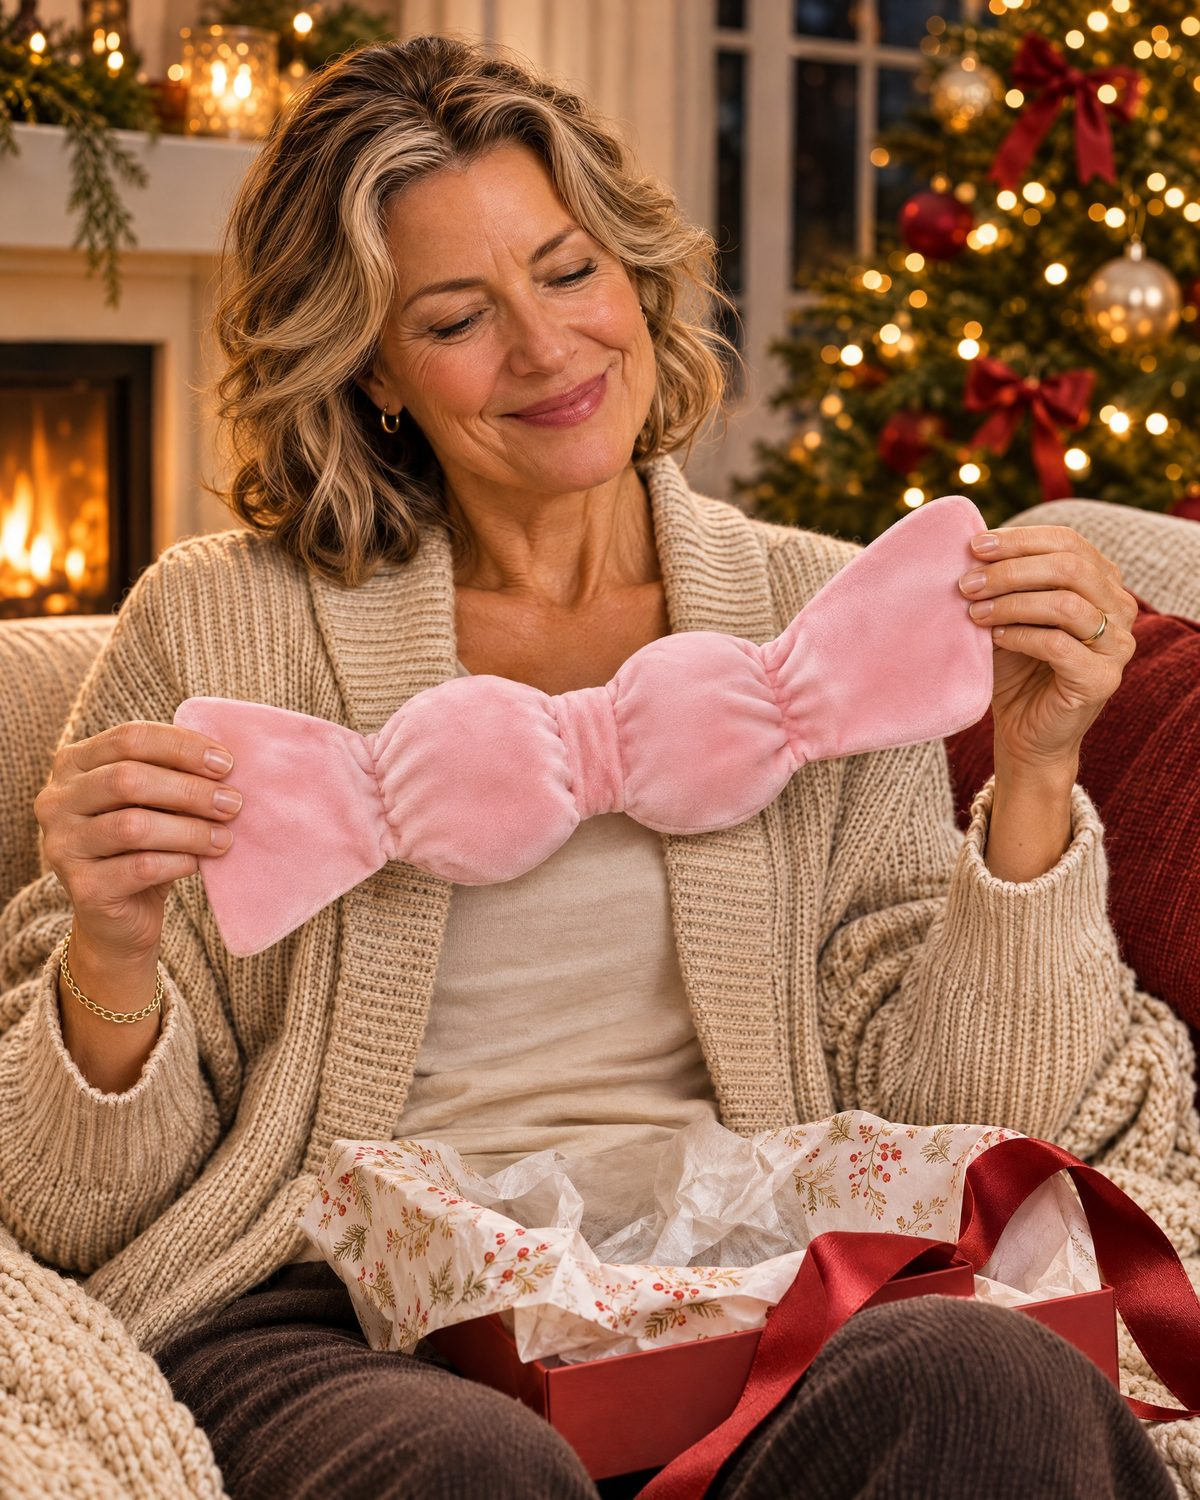
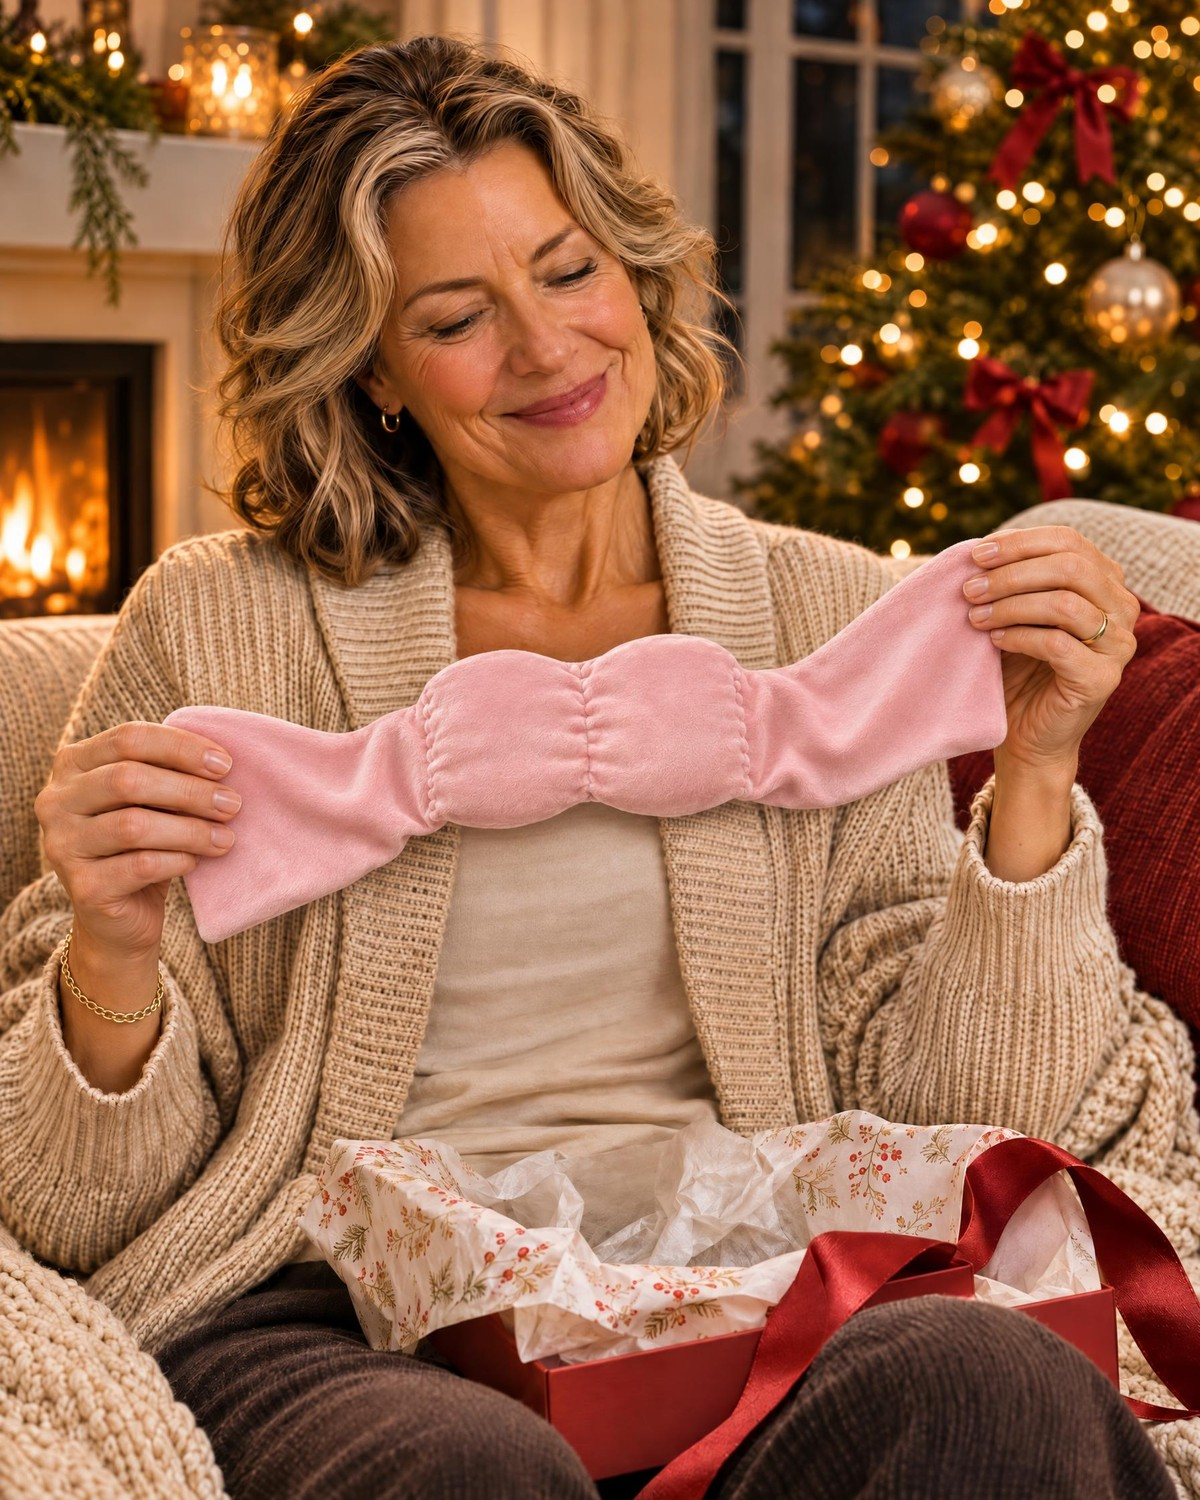
Nowe zdjęcia różowej maski, dostawa 7–15 dni, bez wymiarów
Claude-Session: https://claude.ai/code/session_015pvefb4PoZBYha924Rvz6N

diff --git a/biznes.md b/biznes.md
@@ -310,3 +310,4 @@ Do zrobienia przed startem (właściciel klika, kolejno):
 | 2026-11-16 | Opinie: właściciel chciał przerobić opinie o termoforze na opinie o masce. Odmówione (wymyślone opinie = nieuczciwa praktyka, kary UOKiK, ryzyko blokady Meta i Shopify). Zamiast tego: import PRAWDZIWYCH opinii o tej samej masce z AliExpress przez Loox, z jawnym podpisem na stronie produktu i punktem 10 w regulaminie, bez filtrowania po gwiazdkach. Motyw „Usnij v3 (opinie Loox)” z widżetem czeka na publikację | Opinie z innego produktu albo napisane przez nas wprowadzałyby klientów w błąd. Prawdziwe opinie o tym samym produkcie można pokazać, jeśli uczciwie podamy, skąd pochodzą i że nie są zakupami w naszym sklepie |
 | 2026-11-16 | RYZYKO: kształt maski (4 komory, płaskie końce, szczelina do przełożenia końca) to konstrukcja maski Nodpod, która na swojej stronie pisze o „opatentowanym” projekcie z czterema komorami. Nie wiemy, czy patent działa w PL/UE. Nie używamy nazwy Nodpod nigdzie. Opinie z AliExpress: tylko z oferty 1:1 tej samej maski (właściciel szuka zdjęciem w aplikacji AliExpress, import przez zakładkę „Import to Loox”) | Przy zgłoszeniu naruszenia Meta może wyłączyć reklamy, a Shopify ukryć produkt. Wracamy do tematu, jeśli produkt zacznie sprzedawać |
 | 2026-11-16 | Kampania WSTRZYMANA (właściciel: „nie ma budżetu”), wydane 0,05 zł. Opinie: 8 prawdziwych opinii z AliExpress zaimportowanych do Loox (śr. 4,6), widoczne na stronie produktu z podpisem źródła; motyw „Usnij v4” pokazuje je też na stronie głównej, czeka na publikację | Przy wznowieniu kampanii sprawdzić datę startu (ad set ma 16.11 01:01, czyli od razu po włączeniu) i budżet (100 zł/dzień) |
+| 2026-11-16 | Poprawki sklepu: (1) nowe zdjęcia różowej maski w łóżku i przy choince (stare miały zły kształt: węzeł w środku, krótkie końce), wygenerowane z packshotem jako wzorem, 18 kr.; (2) usunięte wymiary 70 × 12 cm (dostawca podaje 25 × 25 × 2, prawdopodobnie paczka, niepewne), zakładka „Wymiary” → „Materiał i budowa”; (3) dostawa 7–15 dni (1–3 przygotowania + 6–12 transportu, metoda znaleziona przez właściciela w Teemdropie) w opisie produktu, stronach, nazwach wysyłki przy kasie i w motywie v4; notka świąteczna: zamów do 8 grudnia | Zgodność z prawdziwym produktem i krótszy termin dostawy. Do zrobienia ręcznie przez właściciela: polityki Wysyłka, Kontakt, Warunki (8 do 18 → 7 do 15) i publikacja motywu v4. Reklamy R2 i R5 mają w tekście „8–18 dni” (ostrożniej niż w sklepie), do wymiany przy wznowieniu kampanii |

diff --git a/social/instagram/posty.md b/social/instagram/posty.md
@@ -20,7 +20,7 @@ Bio (117 znaków, limit 150):
 ```
 Obciążeniowa maska na oczy ze szklanymi kulkami
 2 maski za 199 zł, darmowa dostawa
-Dostawa 8–18 dni · 30 dni na zwrot
+Dostawa 7–15 dni · 30 dni na zwrot
 ```
 
 Stare posty Otulaj: **Archiwizuj**, nie usuwaj (przy każdym poście: ⋯ → Archiwizuj). Zarchiwizowane widzisz tylko Ty i możesz je przywrócić. Wyróżnione relacje Otulaj też usuń z profilu.
@@ -116,7 +116,7 @@ Prezent dla kogoś, kto co rano mówi „znowu nie spałam”.
 
 Zestaw 2 masek za 199 zł z darmową dostawą: jedna pod choinkę, druga dla Ciebie.
 
-Dostawa trwa 8–18 dni i dostajesz numer śledzenia, więc na święta zamów z wyprzedzeniem.
+Dostawa trwa 7–15 dni i dostajesz numer śledzenia, więc na święta zamów z wyprzedzeniem.
 
 #prezentdlaniej #prezentnaswieta #maskadospania
 ```
